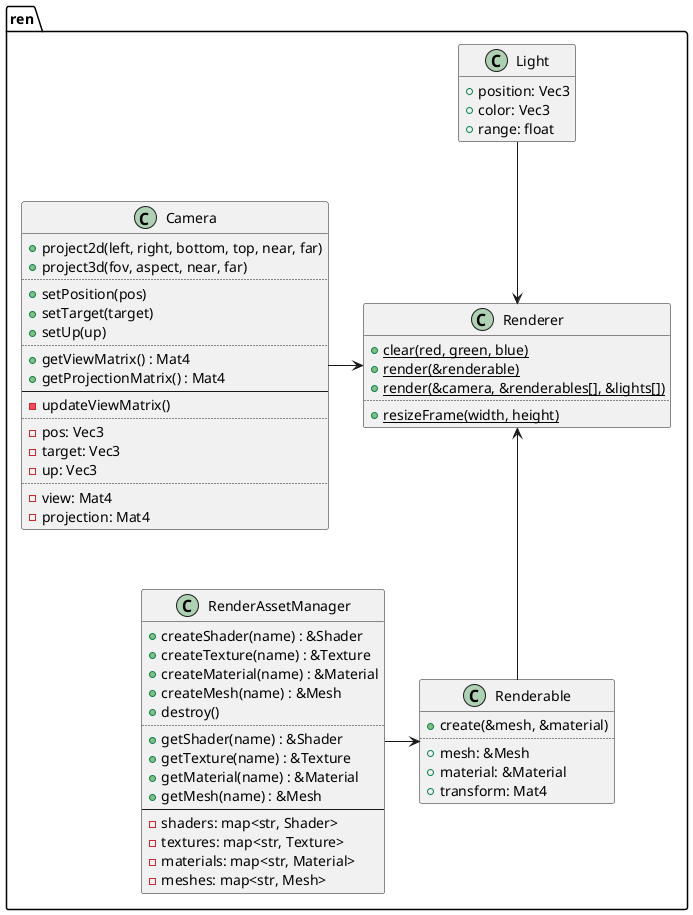
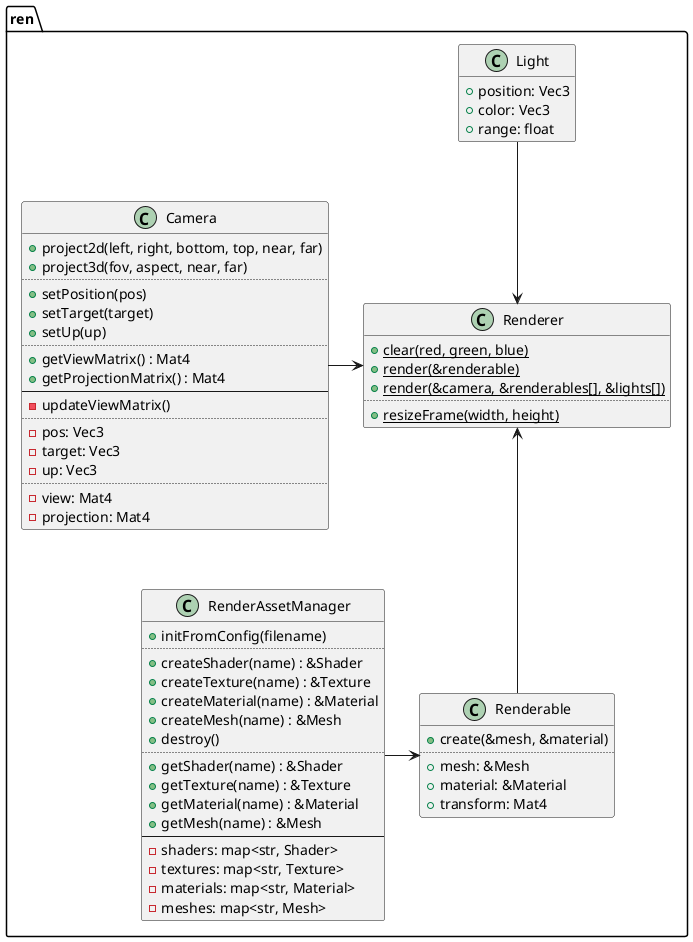
Added initFromConfig to RAM

diff --git a/src/ren/renderassetmanager.hpp b/src/ren/renderassetmanager.hpp
@@ -3,6 +3,7 @@
 #include <ren/texture.hpp>
 #include <ren/material.hpp>
 #include <ren/mesh.hpp>
+#include <util.hpp>
 #include <map>
 #include <string>
 
@@ -11,6 +12,8 @@ namespace ren {
 	class RenderAssetManager {
 
 	public:
+		void initFromConfig(cstr fileName);
+
 		Shader& createShader(const std::string& name);
 		Texture& createTexture(const std::string& name);
 		Material& createMaterial(const std::string& name);

diff --git a/src/ren/renderassetmanager.cpp b/src/ren/renderassetmanager.cpp
@@ -2,6 +2,9 @@
 
 using namespace ren;
 
+void RenderAssetManager::initFromConfig(cstr fileName) {
+}
+
 Shader& RenderAssetManager::createShader(const std::string& name) {
 	shaders[name] = Shader();
 	return shaders.at(name);
